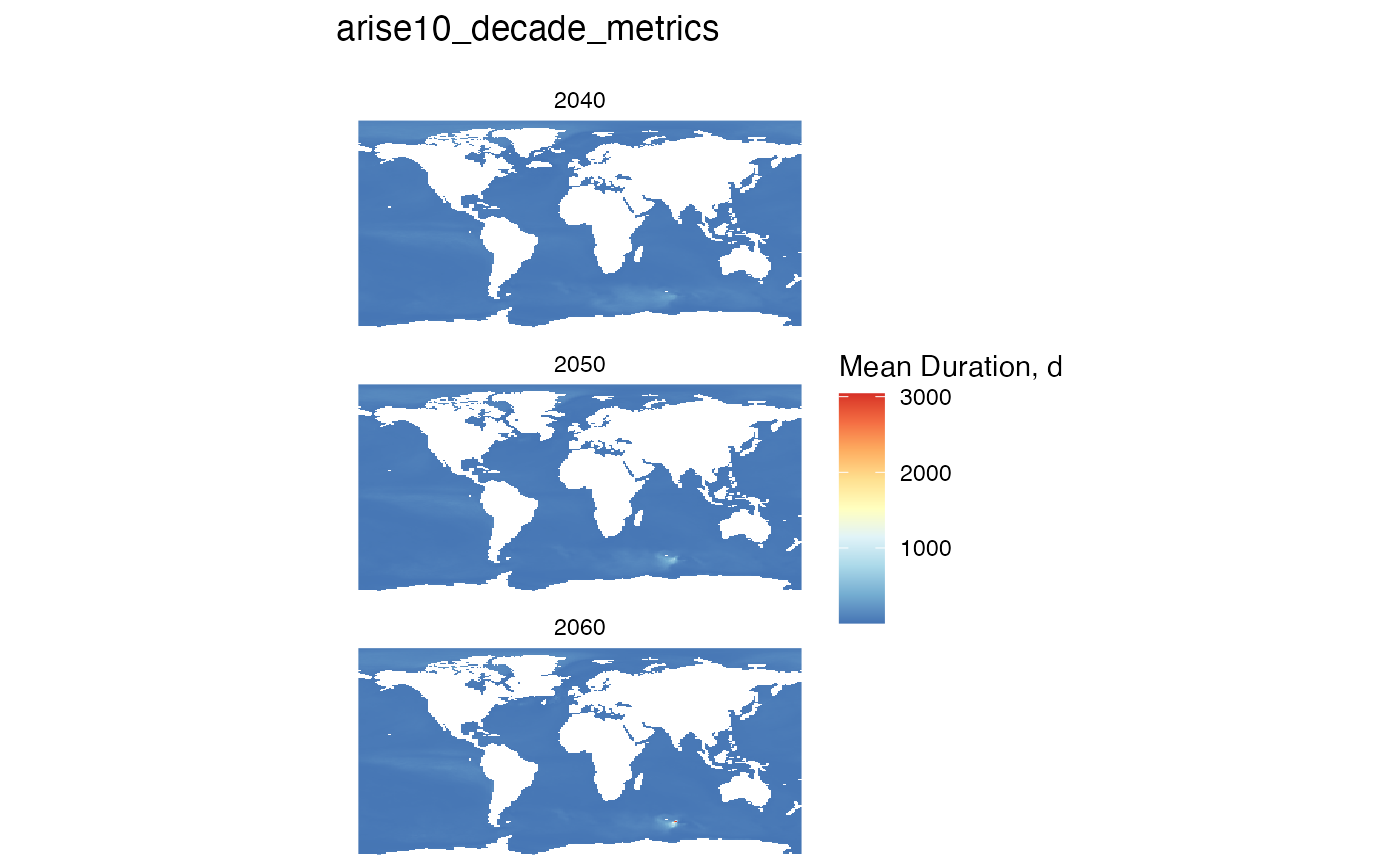
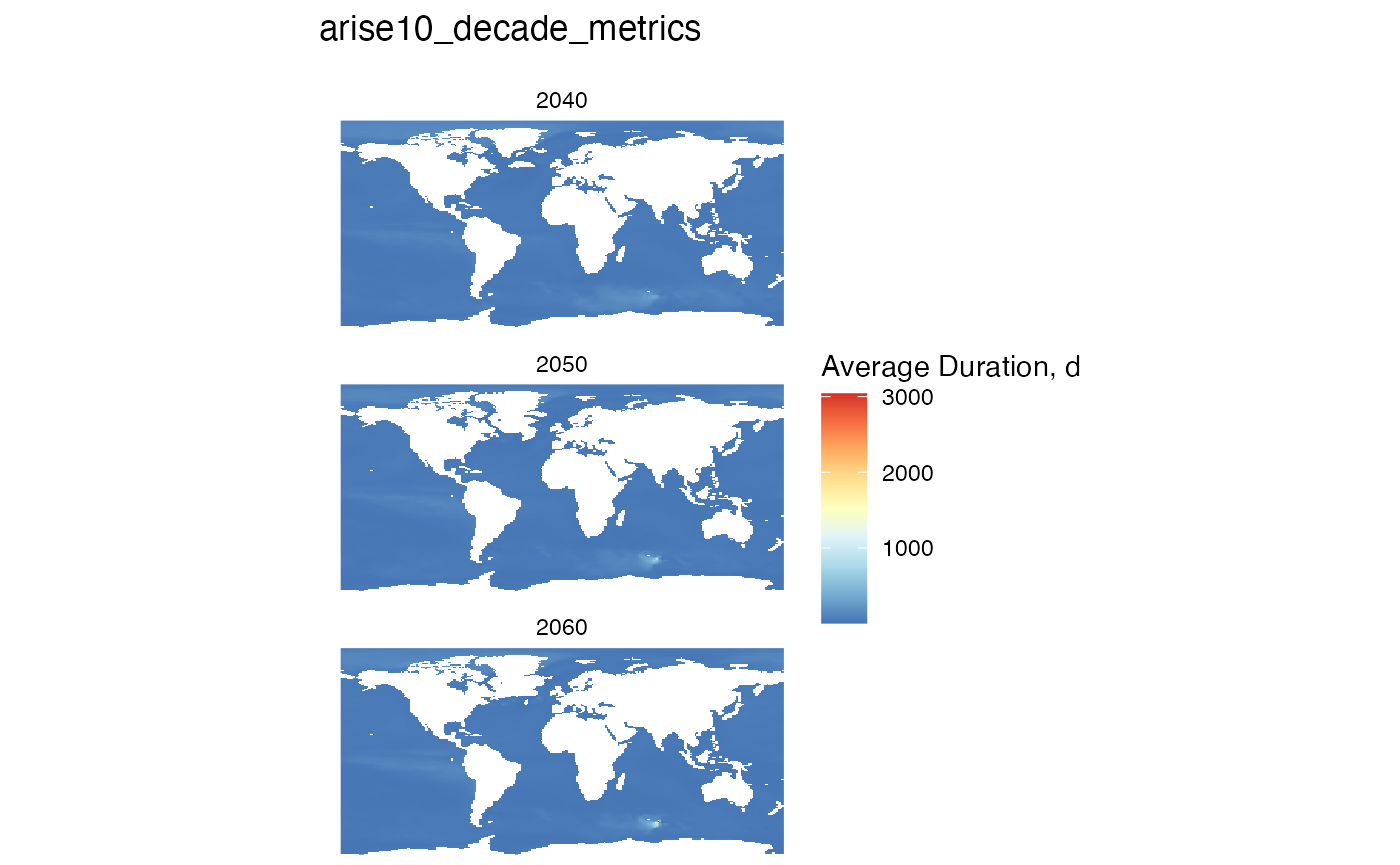
update docs site

diff --git a/docs/articles/using_mhw_database.html b/docs/articles/using_mhw_database.html
@@ -93,7 +93,7 @@ function:</p>
 <div class="sourceCode" id="cb4"><pre class="downlit sourceCode r">
 <code class="sourceCode R"><span><span class="va">db</span><span class="op">&lt;-</span> <span class="fu">mhwci</span><span class="fu">::</span><span class="fu"><a href="../reference/mhw_connect.html">mhw_connect</a></span><span class="op">(</span><span class="va">db_file</span><span class="op">)</span></span>
 <span><span class="fu"><a href="https://rdrr.io/r/base/print.html" class="external-link">print</a></span><span class="op">(</span><span class="va">db</span><span class="op">)</span></span>
-<span><span class="co">#&gt; &lt;duckdb_connection 0c910 driver=&lt;duckdb_driver dbdir='/Users/billspat/Code/SpaCELab/marine_heatwave_work/mhwci/db/mhwci_v3.db' read_only=FALSE bigint=numeric&gt;&gt;</span></span></code></pre></div>
+<span><span class="co">#&gt; &lt;duckdb_connection e7440 driver=&lt;duckdb_driver dbdir='/Users/billspat/Code/SpaCELab/marine_heatwave_work/mhwci/db/mhwci_v3.db' read_only=FALSE bigint=numeric&gt;&gt;</span></span></code></pre></div>
 <p>This isn’t actually the database, just a connection to it required
 for all database functions.</p>
 <p>Now you could list the tables in the database:</p>
@@ -169,7 +169,7 @@ prime meridian instead of the dateline.</p>
 duration) and the threshold of 1/2 year</p>
 <div class="sourceCode" id="cb9"><pre class="downlit sourceCode r">
 <code class="sourceCode R"><span><span class="fu"><a href="../reference/plot_rasters_squish_outliers.html">plot_rasters_squish_outliers</a></span><span class="op">(</span><span class="va">raster_list</span>, title <span class="op">=</span> <span class="va">mhw_table</span>, </span>
-<span>                             mhw_metric <span class="op">=</span> <span class="st">"Mean Duration, d"</span>, </span>
+<span>                             scale_label <span class="op">=</span> <span class="st">"Average Duration, d"</span>, </span>
 <span>                             <span class="op">)</span></span></code></pre></div>
 <p><img src="using_mhw_database_files/figure-html/unnamed-chunk-9-1.png" width="700"></p>
 </div>
@@ -184,13 +184,13 @@ database</p>
 <div class="sourceCode" id="cb10"><pre class="downlit sourceCode r">
 <code class="sourceCode R"><span><span class="va">raster_list</span> <span class="op">&lt;-</span> <span class="fu"><a href="../reference/durations_by_decade_raster.html">durations_by_decade_raster</a></span><span class="op">(</span><span class="va">db</span>, mhw_table<span class="op">=</span> <span class="st">"arise15_decade_metrics"</span><span class="op">)</span></span>
 <span><span class="fu"><a href="../reference/plot_rasters_squish_outliers.html">plot_rasters_squish_outliers</a></span><span class="op">(</span><span class="va">raster_list</span>, title <span class="op">=</span> <span class="st">"ARISE 1.5 Average Duration"</span>, </span>
-<span>                             mhw_metric <span class="op">=</span> <span class="st">"Mean Duration, d"</span>, </span>
+<span>                             scale_label <span class="op">=</span> <span class="st">"Mean Duration, d"</span>, </span>
 <span>                             threshold <span class="op">=</span> <span class="fl">365</span><span class="op">/</span><span class="fl">2</span><span class="op">)</span></span></code></pre></div>
 <p><img src="using_mhw_database_files/figure-html/unnamed-chunk-10-1.png" width="700"></p>
 <div class="sourceCode" id="cb11"><pre class="downlit sourceCode r">
 <code class="sourceCode R"><span><span class="va">raster_list</span> <span class="op">&lt;-</span> <span class="fu"><a href="../reference/durations_by_decade_raster.html">durations_by_decade_raster</a></span><span class="op">(</span><span class="va">db</span>, mhw_table<span class="op">=</span> <span class="st">"ssp245_decade_metrics"</span><span class="op">)</span></span>
 <span><span class="fu"><a href="../reference/plot_rasters_squish_outliers.html">plot_rasters_squish_outliers</a></span><span class="op">(</span><span class="va">raster_list</span>, title <span class="op">=</span> <span class="st">"SSP2 4.5 Average Duration"</span>, </span>
-<span>                             mhw_metric <span class="op">=</span> <span class="st">"Mean Duration, d"</span>, </span>
+<span>                             scale_label <span class="op">=</span> <span class="st">"Mean Duration, d"</span>, </span>
 <span>                             threshold <span class="op">=</span> <span class="fl">365</span><span class="op">/</span><span class="fl">2</span><span class="op">)</span></span></code></pre></div>
 <p><img src="using_mhw_database_files/figure-html/unnamed-chunk-11-1.png" width="700"></p>
 </div>
@@ -215,7 +215,7 @@ statistics (mean, median, min, max, mode, etc)</p>
 <span><span class="co"># no threshold is set</span></span>
 <span><span class="fu"><a href="../reference/plot_rasters_squish_outliers.html">plot_rasters_squish_outliers</a></span><span class="op">(</span><span class="va">raster_list</span>, </span>
 <span>                             title <span class="op">=</span> <span class="fu"><a href="https://rdrr.io/r/base/paste.html" class="external-link">paste</a></span><span class="op">(</span><span class="va">mhw_table</span>, <span class="va">mhw_metric</span>, <span class="va">sql_function</span><span class="op">)</span>, </span>
-<span>                             mhw_metric <span class="op">=</span> <span class="st">"avg intensity average, c"</span> <span class="op">)</span></span></code></pre></div>
+<span>                             scale_label <span class="op">=</span> <span class="st">"avg intensity average, c"</span> <span class="op">)</span></span></code></pre></div>
 <p><img src="using_mhw_database_files/figure-html/unnamed-chunk-12-1.png" width="700"></p>
 </div>
 <div class="section level2">
@@ -238,13 +238,17 @@ which is very fast.</p>
 <span><span class="va">duration_by_loc</span><span class="op">&lt;-</span> <span class="fu">DBI</span><span class="fu">::</span><span class="fu"><a href="https://dbi.r-dbi.org/reference/dbGetQuery.html" class="external-link">dbGetQuery</a></span><span class="op">(</span><span class="va">db</span>, <span class="va">sql</span><span class="op">)</span></span>
 <span><span class="co"># show the first few rows</span></span>
 <span><span class="fu"><a href="https://rdrr.io/r/utils/head.html" class="external-link">head</a></span><span class="op">(</span><span class="va">duration_by_loc</span><span class="op">)</span></span>
-<span><span class="co">#&gt;           lat  lon decade  avg_dur</span></span>
-<span><span class="co">#&gt; 1  70.2094246 5.00   2060 20.00000</span></span>
-<span><span class="co">#&gt; 2  86.2303671 5.00   2060 63.42525</span></span>
-<span><span class="co">#&gt; 3 -25.9162302 6.25   2060 25.79730</span></span>
-<span><span class="co">#&gt; 4 -19.3193715 6.25   2060 25.32836</span></span>
-<span><span class="co">#&gt; 5  -0.4712039 6.25   2060 27.95175</span></span>
-<span><span class="co">#&gt; 6 -53.2460732 7.50   2060 38.11203</span></span></code></pre></div>
+<span><span class="co">#&gt;          lat   lon decade  avg_dur</span></span>
+<span><span class="co">#&gt; 1 -52.303665 88.75   2050 31.89781</span></span>
+<span><span class="co">#&gt; 2   6.125655 88.75   2050 28.36538</span></span>
+<span><span class="co">#&gt; 3   8.010472 88.75   2050 26.32727</span></span>
+<span><span class="co">#&gt; 4  20.261780 88.75   2050 22.63855</span></span>
+<span><span class="co">#&gt; 5  76.806283 88.75   2050 65.89809</span></span>
+<span><span class="co">#&gt; 6  85.287959 88.75   2050 26.84663</span></span></code></pre></div>
+<p>Now close the connection used here, otherwise there may be errors
+(“could not set lock on file …”)</p>
+<div class="sourceCode" id="cb15"><pre class="downlit sourceCode r">
+<code class="sourceCode R"><span><span class="fu">DBI</span><span class="fu">::</span><span class="fu"><a href="https://dbi.r-dbi.org/reference/dbDisconnect.html" class="external-link">dbDisconnect</a></span><span class="op">(</span><span class="va">db</span><span class="op">)</span></span></code></pre></div>
 </div>
   </main><aside class="col-md-3"><nav id="toc" aria-label="Table of contents"><h2>On this page</h2>
     </nav></aside>

diff --git a/docs/articles/importing_into_database.html b/docs/articles/importing_into_database.html
@@ -79,7 +79,7 @@ created for each scenario, and the tables include all the ensemble
 members with a column “ensemble” indicating which one.</p>
 <p>It imports from CSV files created by Dr. Lala Kounta using
 Matlab.</p>
-<p>see “using_mhw_database” vignette for reading, summarizing and
+<p>see vignette(“using_mhw_database”) for reading, summarizing and
 plotting data.</p>
 </div>
 <div class="section level2">
@@ -204,7 +204,7 @@ run the script directly in Rstudio. It requires the <code>duckdb</code>
 package to be installed, and the CSV file path in the SQL to be relative
 to your R project folder.</p>
 <p>See the file <code>db/example.sql</code> which has the comment</p>
-<p><code>-- !preview conn=DBI::dbConnect(duckdb::duckdb(), dbdir = 'db/mhwci_v3.db')</code></p>
+<div class="sourceCode" id="cb5"><pre class="sourceCode sql"><code class="sourceCode sql"><span id="cb5-1"><a href="#cb5-1" tabindex="-1"></a><span class="co">-- !preview conn=DBI::dbConnect(duckdb::duckdb(), dbdir = 'db/mhwci_v3.db')</span></span></code></pre></div>
 <p>if the SQL commands return a table, it will be previewed. If the
 commands create tables (those are called “data definition language” or
 DDL commands) then they should still run in Rstudio provide the path to

diff --git a/docs/reference/plot_rasters_squish_outliers.html b/docs/reference/plot_rasters_squish_outliers.html
@@ -44,7 +44,7 @@
     <div class="sourceCode"><pre class="sourceCode r"><code><span><span class="fu">plot_rasters_squish_outliers</span><span class="op">(</span></span>
 <span>  <span class="va">raster_list</span>,</span>
 <span>  title <span class="op">=</span> <span class="st">""</span>,</span>
-<span>  mhw_metric <span class="op">=</span> <span class="st">"MHW Duration, d"</span>,</span>
+<span>  scale_label <span class="op">=</span> <span class="st">""</span>,</span>
 <span>  cut_percent <span class="op">=</span> <span class="fl">0</span>,</span>
 <span>  threshold_value <span class="op">=</span> <span class="cn">NA</span></span>
 <span><span class="op">)</span></span></code></pre></div>
@@ -60,6 +60,10 @@
 
 <dt id="arg-title">title<a class="anchor" aria-label="anchor" href="#arg-title"></a></dt>
 <dd><p>character title of the plot, default is empty title</p></dd>
+
+
+<dt id="arg-scale-label">scale_label<a class="anchor" aria-label="anchor" href="#arg-scale-label"></a></dt>
+<dd><p>character, label to print above the legend/scale</p></dd>
 
 
 <dt id="arg-cut-percent">cut_percent<a class="anchor" aria-label="anchor" href="#arg-cut-percent"></a></dt>
